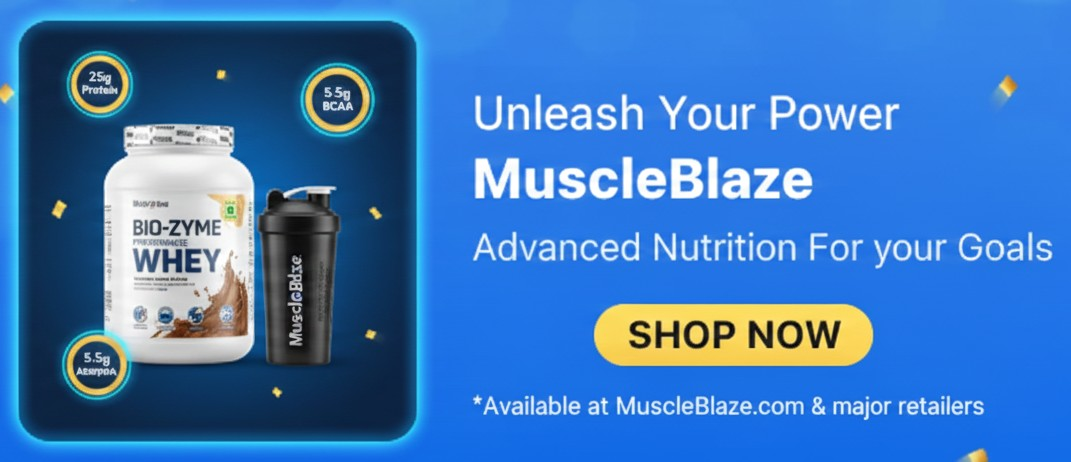
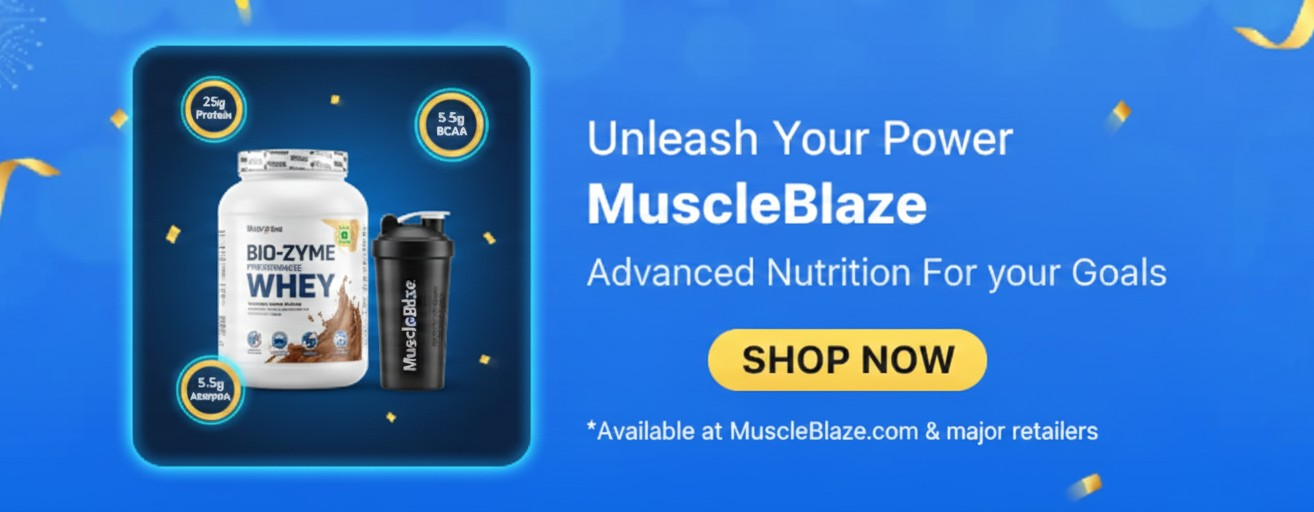
....

diff --git a/components/home/Hero.tsx b/components/home/Hero.tsx
@@ -13,26 +13,43 @@ export default function Hero() {
     console.log('Searching for:', searchQuery)
   }
 
-  // Image slides - filter out slides without images
+  // Image slides with responsive images for different breakpoints
   const allSlides = [
     {
       id: 1,
-      image: '/1764570286026.jpg',
+      image: {
+        mobile: '/1764570286026.jpg', // < 768px
+        tablet: '/1764570286026.jpg', // 768px - 1080px
+        desktop: '/1764570286026.jpg' // >= 1080px
+      },
       alt: 'Fitness and Nutrition'
     },
     {
       id: 2,
-      image: '',
+      image: {
+        mobile: '',
+        tablet: '',
+        desktop: ''
+      },
       alt: 'Healthy Food and Protein'
     },
     {
       id: 3,
-      image: '',
+      image: {
+        mobile: '',
+        tablet: '',
+        desktop: ''
+      },
       alt: 'Nutrition and Minerals'
     }
   ]
   
-  const slides = allSlides.filter(slide => slide.image && slide.image.trim() !== '')
+  // Filter slides that have at least one image
+  const slides = allSlides.filter(slide => 
+    (slide.image.mobile && slide.image.mobile.trim() !== '') ||
+    (slide.image.tablet && slide.image.tablet.trim() !== '') ||
+    (slide.image.desktop && slide.image.desktop.trim() !== '')
+  )
 
   // Auto-slide functionality
   useEffect(() => {
@@ -73,7 +90,7 @@ export default function Hero() {
 
         {/* Hero Slider - Mobile with Padding and Rounded Border */}
         <div className="px-4 pb-4 w-full">
-          <div className="relative w-full h-[18vh] min-h-[200px] max-h-[350px] rounded-lg overflow-hidden border border-gray-200 shadow-md">
+          <div className="relative w-full h-[18vh] min-h-[160px] max-h-[350px] rounded-lg overflow-hidden border border-gray-200 shadow-md">
             {slides.map((slide, index) => (
               <div
                 key={slide.id}
@@ -81,9 +98,9 @@ export default function Hero() {
                   index === currentSlide ? 'opacity-100' : 'opacity-0'
                 }`}
               >
-                {slide.image && (
+                {slide.image.mobile && slide.image.mobile.trim() !== '' && (
                   <Image
-                    src={slide.image}
+                    src={slide.image.mobile}
                     alt={slide.alt}
                     fill
                     priority={index === 0}
@@ -125,9 +142,9 @@ export default function Hero() {
                 index === currentSlide ? 'opacity-100' : 'opacity-0'
               }`}
             >
-              {slide.image && (
+              {slide.image.tablet && slide.image.tablet.trim() !== '' && (
                 <Image
-                  src={slide.image}
+                  src={slide.image.tablet}
                   alt={slide.alt}
                   fill
                   priority={index === 0}
@@ -168,9 +185,9 @@ export default function Hero() {
                 index === currentSlide ? 'opacity-100' : 'opacity-0'
               }`}
             >
-              {slide.image && (
+              {slide.image.desktop && slide.image.desktop.trim() !== '' && (
                 <Image
-                  src={slide.image}
+                  src={slide.image.desktop}
                   alt={slide.alt}
                   fill
                   priority={index === 0}
